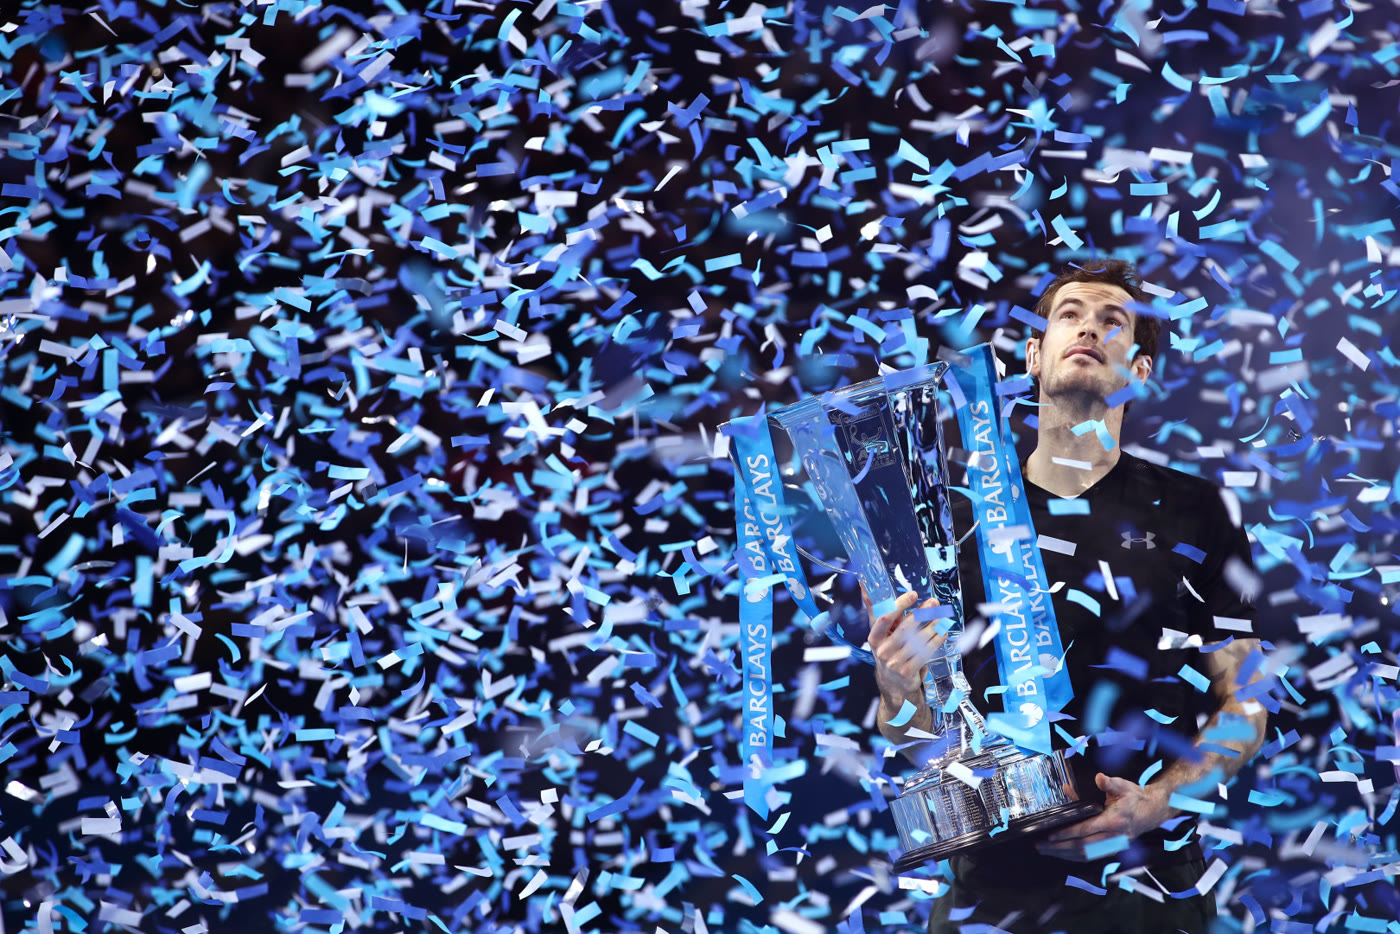
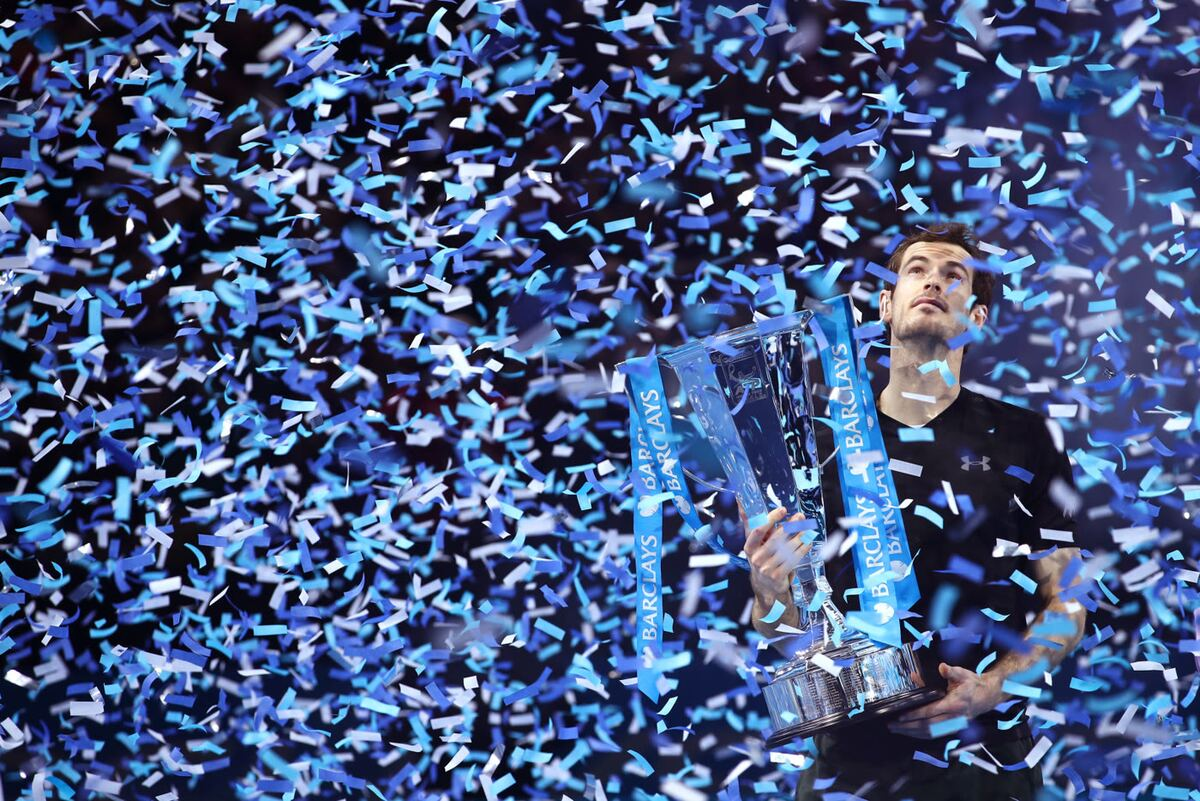
Écran d'ouverture : affichage immédiat depuis une copie locale (demarrage.js), polices non bloquantes, images en cache et allégées
Claude-Session: https://claude.ai/code/session_017ryZMzGu8HmXDfng5rvuLa

diff --git a/tests/web/ouverture-cache.test.js b/tests/web/ouverture-cache.test.js
@@ -1,0 +1,67 @@
+import test from 'node:test';
+import assert from 'node:assert/strict';
+import { readFileSync } from 'node:fs';
+import { CLE_CACHE, ecrireCache, lireCache, sessionMemorisee } from '../../web/js/ouverture-cache.js';
+
+const lire = (f) => readFileSync(new URL(`../../web/${f}`, import.meta.url), 'utf8');
+function faux(initial = {}) {
+  const m = new Map(Object.entries(initial));
+  return { getItem: (k) => (m.has(k) ? m.get(k) : null), setItem: (k, v) => m.set(k, String(v)), removeItem: (k) => m.delete(k), get length() { return m.size; }, key: (i) => [...m.keys()][i] };
+}
+const cit = { id: 1, type: 'citation', texte: 'Texte A', auteur: 'X', source: '2010', actif: true, secret: 'ne doit pas être copié' };
+const img = { id: 3, type: 'image', image_url: './images/ouverture/a.jpg', texte: 'Légende', actif: true };
+
+test('copie des contenus : écrire puis lire, seulement les contenus valides et seulement les champs utiles', () => {
+  const s = faux();
+  ecrireCache(s, [cit, img, { id: 9, type: 'citation', texte: ' ', actif: true }, { id: 10, type: 'info', texte: 'x', actif: false }]);
+  const l = lireCache(s);
+  assert.deepEqual(l.map((c) => c.id), [1, 3]);
+  assert.equal('secret' in l[0], false);
+});
+
+test('copie des contenus : liste vide (interrupteur éteint, base vide) = copie effacée ; copie absente ou abîmée = liste vide', () => {
+  const s = faux();
+  ecrireCache(s, [cit]);
+  ecrireCache(s, []);
+  assert.equal(s.getItem(CLE_CACHE), null);
+  assert.deepEqual(lireCache(s), []);
+  assert.deepEqual(lireCache(faux({ [CLE_CACHE]: '{pas du json' })), []);
+  assert.deepEqual(lireCache(faux({ [CLE_CACHE]: '{"a":1}' })), []);
+});
+
+test('copie des contenus : un stockage inaccessible ne fait jamais planter', () => {
+  const casse = { getItem() { throw new Error('refusé'); }, setItem() { throw new Error('plein'); }, removeItem() { throw new Error('refusé'); }, get length() { throw new Error('refusé'); }, key() { throw new Error('refusé'); } };
+  assert.doesNotThrow(() => ecrireCache(casse, [cit]));
+  assert.deepEqual(lireCache(casse), []);
+  assert.equal(sessionMemorisee(casse), false);
+});
+
+test('sessionMemorisee : seulement si une session Supabase est mémorisée (pas d’écran d’ouverture avant la connexion)', () => {
+  assert.equal(sessionMemorisee(faux()), false);
+  assert.equal(sessionMemorisee(faux({ autre: '1', [CLE_CACHE]: '[]' })), false);
+  assert.equal(sessionMemorisee(faux({ 'sb-wmqyplehxtafxoilllfd-auth-token': '' })), false, 'clé vide : déconnecté');
+  assert.equal(sessionMemorisee(faux({ 'sb-wmqyplehxtafxoilllfd-auth-token': '{"access_token":"x"}' })), true);
+});
+
+test('lancement rapide : index.html démarre par demarrage.js (précharge app.js), app.js reprend la main sans relire la base ni rouvrir l’écran', () => {
+  const html = lire('index.html');
+  assert.match(html, /<script type="module" src="demarrage\.js">/);
+  assert.doesNotMatch(html, /<script type="module" src="app\.js">/);
+  assert.match(html, /rel="modulepreload" href="app\.js"/);
+  assert.match(html, /rel="stylesheet" media="print" onload="this\.media='all'"/, 'polices non bloquantes');
+  const dem = lire('demarrage.js');
+  assert.match(dem, /sessionMemorisee\(localStorage\)/);
+  assert.match(dem, /import\('\.\/app\.js'\)/);
+  assert.match(dem, /globalThis\.pronosOuverture = \{ fermee \}/);
+  const app = lire('app.js');
+  assert.match(app, /globalThis\.pronosOuverture/);
+  assert.match(app, /await rapide\.fermee/);
+  assert.match(app, /ecrireCache\(localStorage, liste\)/);
+});
+
+test('service worker : images de l’écran d’ouverture en cache d’abord ; demarrage.js dans la coque', () => {
+  const sw = lire('sw.js');
+  assert.match(sw, /includes\('\/images\/ouverture\/'\)/);
+  assert.match(sw, /cachePuisReseau/);
+  assert.match(sw, /'demarrage\.js'/);
+});

diff --git a/web/demarrage.js b/web/demarrage.js
@@ -1,0 +1,31 @@
+// Pronos Tennis — premier fichier chargé (21 nov. 2026, demandé par Pierre : réduire le temps avant la citation d'ouverture).
+// Il affiche l'écran d'ouverture tout de suite, depuis la copie gardée sur l'appareil, pendant que l'appli complète (app.js,
+// bibliothèque Supabase, une trentaine de fichiers) se charge en arrière-plan. Sans copie ou sans session mémorisée : rien
+// n'est affiché ici et app.js fait comme avant (lecture dans la base).
+import { choisirContenu, htmlEcranOuverture } from './js/ecran-ouverture.js';
+import { lireCache, sessionMemorisee } from './js/ouverture-cache.js';
+
+const racine = document.getElementById('app');
+const chargerAppli = () => import('./app.js');
+
+try {
+  const contenu = sessionMemorisee(localStorage) ? choisirContenu(lireCache(localStorage)) : null;
+  if (contenu) {
+    racine.innerHTML = htmlEcranOuverture(contenu);
+    const ecran = racine.querySelector('[data-action="ecran-ouverture-fermer"]');
+    ecran.querySelector('img')?.addEventListener('error', (e) => e.target.remove(), { once: true });
+    // app.js attend cette promesse avant d'enchaîner (écrans de fin de tournoi, accueil)
+    const fermee = new Promise((fin) => {
+      const fermer = () => { racine.innerHTML = '<p class="chargement">Chargement…</p>'; fin(); };
+      ecran.addEventListener('click', fermer, { once: true });
+      ecran.addEventListener('keydown', (e) => { if (e.key === 'Enter' || e.key === ' ') { e.preventDefault(); fermer(); } }, { once: true });
+    });
+    globalThis.pronosOuverture = { fermee };
+    ecran.focus();
+  }
+} catch { /* sans écran rapide : app.js s'en charge */ }
+
+chargerAppli().catch(() => {
+  // l'appli n'a pas pu se charger (réseau coupé, fichier introuvable) : on le dit au lieu de rester bloqué sur l'écran
+  racine.innerHTML = '<p class="chargement">Le chargement a échoué. Vérifie ta connexion internet puis <a href="">réessaie</a>.</p>';
+});

diff --git a/web/js/ouverture-cache.js b/web/js/ouverture-cache.js
@@ -1,0 +1,36 @@
+// Écran d'ouverture : copie des contenus gardée sur l'appareil (localStorage), pour afficher la citation / l'info / l'image
+// immédiatement au lancement, sans attendre le chargement de l'appli ni le réseau (21 nov. 2026, demandé par Pierre).
+// Fonctions pures : le stockage est injecté (localStorage dans le navigateur, un faux dans les tests). Jamais d'exception.
+import { contenuValide } from './ecran-ouverture.js';
+
+export const CLE_CACHE = 'pronos-ouverture-v1';
+const MAX_CONTENUS = 300; // garde-fou : la copie reste petite
+
+/** Copie les contenus valides (liste vide : on efface, par ex. interrupteur éteint dans la base). */
+export function ecrireCache(stockage, contenus) {
+  try {
+    const liste = (contenus ?? []).filter(contenuValide).slice(0, MAX_CONTENUS)
+      .map(({ id, type, texte, auteur, source, image_url: imageUrl }) => ({ id, type, texte, auteur, source, image_url: imageUrl, actif: true }));
+    if (liste.length === 0) stockage.removeItem(CLE_CACHE);
+    else stockage.setItem(CLE_CACHE, JSON.stringify(liste));
+  } catch { /* stockage plein ou interdit : l'appli fonctionne sans */ }
+}
+
+/** Contenus copiés (valides seulement) ; liste vide si rien, si la copie est illisible ou si le stockage est inaccessible. */
+export function lireCache(stockage) {
+  try {
+    const liste = JSON.parse(stockage.getItem(CLE_CACHE) ?? '[]');
+    return Array.isArray(liste) ? liste.filter(contenuValide) : [];
+  } catch { return []; }
+}
+
+/** Une session Supabase est-elle mémorisée sur l'appareil ? (jamais d'écran d'ouverture avant la connexion) */
+export function sessionMemorisee(stockage) {
+  try {
+    for (let i = 0; i < stockage.length; i += 1) {
+      const cle = stockage.key(i);
+      if (/^sb-.+-auth-token$/.test(cle) && stockage.getItem(cle)) return true;
+    }
+  } catch { /* inaccessible : comme sans session */ }
+  return false;
+}

diff --git a/web/app.js b/web/app.js
@@ -36,6 +36,7 @@ import { htmlClotureAdmin, apercuCloture, messageErreurCloture } from './js/admi
 import { validerMatch, matchPourBase, messageErreurMatch, htmlMatchsAdmin, htmlFormulaireMatch } from './js/admin-matchs.js';
 import { ecransEnAttente, htmlEcranFin, ecransSaisonEnAttente, htmlEcranFinSaison } from './js/ecran-fin.js';
 import { choisirContenu, htmlEcranOuverture } from './js/ecran-ouverture.js';
+import { ecrireCache } from './js/ouverture-cache.js';
 import { regrouperParisTournoi, choisir, brouillonDepuisPariTournoi, messageErreurPariTournoi, contextePariTournoi } from './js/pari-tournoi.js';
 
 const supabase = createClient(SUPABASE_URL, SUPABASE_CLE_PUBLIABLE, {
@@ -1003,8 +1004,19 @@ async function afficherEcranEtAttendre(html) {
  * l'appli : base vide, interrupteur éteint, image qui ne charge pas ou erreur de lecture → on passe directement à la suite.
  */
 async function montrerEcranOuverture() {
+  // Lancement rapide (demarrage.js) : l'écran est déjà affiché depuis la copie de l'appareil ; on la met à jour pour la prochaine
+  // fois (sans attendre) et on attend seulement que le joueur le ferme.
+  const rapide = globalThis.pronosOuverture;
+  if (rapide) {
+    globalThis.pronosOuverture = null;
+    donnees.ecranOuverture().then((liste) => ecrireCache(localStorage, liste)).catch(() => {});
+    await rapide.fermee;
+    return;
+  }
   let contenu;
-  try { contenu = choisirContenu(await donnees.ecranOuverture()); } catch { return; }
+  let liste;
+  try { liste = await donnees.ecranOuverture(); contenu = choisirContenu(liste); } catch { return; }
+  ecrireCache(localStorage, liste); // première ouverture (ou après connexion) : la copie servira dès le prochain lancement
   if (!contenu) return;
   racine.innerHTML = htmlEcranOuverture(contenu);
   window.scrollTo(0, 0);

diff --git a/web/index.html b/web/index.html
@@ -15,8 +15,16 @@
   <title>Pronos Tennis</title>
   <link rel="preconnect" href="https://fonts.googleapis.com">
   <link rel="preconnect" href="https://fonts.gstatic.com" crossorigin>
-  <link href="https://fonts.googleapis.com/css2?family=Bricolage+Grotesque:opsz,wght@12..96,400;12..96,600;12..96,800&display=swap" rel="stylesheet">
+  <!-- polices : feuille non bloquante (le texte s'affiche tout de suite avec la police de secours, puis bascule) -->
+  <link href="https://fonts.googleapis.com/css2?family=Bricolage+Grotesque:opsz,wght@12..96,400;12..96,600;12..96,800&display=swap" rel="stylesheet" media="print" onload="this.media='all'">
+  <noscript><link href="https://fonts.googleapis.com/css2?family=Bricolage+Grotesque:opsz,wght@12..96,400;12..96,600;12..96,800&display=swap" rel="stylesheet"></noscript>
   <link rel="stylesheet" href="style.css">
+  <!-- chargés d'avance, en parallèle : écran d'ouverture rapide puis appli complète -->
+  <link rel="modulepreload" href="demarrage.js">
+  <link rel="modulepreload" href="js/ecran-ouverture.js">
+  <link rel="modulepreload" href="js/ouverture-cache.js">
+  <link rel="modulepreload" href="js/outils.js">
+  <link rel="modulepreload" href="app.js">
 </head>
 <body>
   <div id="app" aria-live="polite">
@@ -29,7 +37,7 @@
       if (c) c.innerHTML = 'Le chargement prend trop de temps. Vérifie ta connexion internet puis <a href="">réessaie</a>. Si cela dure, préviens Pit.';
     }, 15000);
   </script>
-  <script type="module" src="app.js"></script>
+  <script type="module" src="demarrage.js"></script>
   <noscript>Cette application a besoin de JavaScript.</noscript>
 </body>
 </html>

diff --git a/web/sw.js b/web/sw.js
@@ -8,7 +8,7 @@
  */
 const CACHE = 'pronos-tennis-v1';
 const DELAI_RESEAU_MS = 4000;
-const COQUE = ['./', 'index.html', 'style.css', 'app.js', 'config.js', 'manifest.webmanifest', 'icons/icone-192.png'];
+const COQUE = ['./', 'index.html', 'style.css', 'demarrage.js', 'app.js', 'config.js', 'manifest.webmanifest', 'icons/icone-192.png'];
 const HOTES_STATIQUES = ['cdn.jsdelivr.net', 'fonts.googleapis.com', 'fonts.gstatic.com'];
 
 self.addEventListener('install', (evt) => {
@@ -60,12 +60,24 @@ async function cacheRafraichi(requete) {
   return enCache || (await reseau) || Response.error();
 }
 
+/** Images de l'écran d'ouverture : elles ne changent jamais (un nom de fichier = une image) → cache d'abord, réseau seulement la première fois. */
+async function cachePuisReseau(requete) {
+  const cache = await caches.open(CACHE);
+  const enCache = await cache.match(requete);
+  if (enCache) return enCache;
+  const reponse = await fetch(requete);
+  if (reponse && reponse.ok) cache.put(requete, reponse.clone());
+  return reponse;
+}
+
 self.addEventListener('fetch', (evt) => {
   const requete = evt.request;
   if (requete.method !== 'GET') return;
   const url = new URL(requete.url);
 
-  if (url.origin === self.location.origin) {
+  if (url.origin === self.location.origin && url.pathname.includes('/images/ouverture/')) {
+    evt.respondWith(cachePuisReseau(requete));
+  } else if (url.origin === self.location.origin) {
     evt.respondWith(reseauPuisCache(requete));
   } else if (HOTES_STATIQUES.includes(url.hostname)) {
     evt.respondWith(cacheRafraichi(requete));

diff --git a/ETAT.md b/ETAT.md
@@ -354,3 +354,11 @@ Choix de conception de l'étape 3.3 (à signaler à Pierre) : la maquette 1 n'es
 - **Interrupteur allumé le 21 nov. 2026** : `update public.ecran_ouverture_reglage set actif = true;` (false pour l'éteindre).
 - **Réactivés le 21 nov. 2026 (16 h)** sur décision de Pierre : la citation d'Ivan Lendl gardée telle quelle ; la statistique sur le premier titre en Grand Chelem commence désormais par « Pendant l'ère Open, » (précision : Jimmy Connors en 1974 est le seul cas limite, puisqu'il n'a pas joué Roland-Garros cette année-là). Plus aucun contenu en pause : 12 images, 48 citations, 8 statistiques actives (3 ajoutées à 17 h, avec emojis).
 - **Pour ajouter un contenu** : une ligne `insert` de plus (SQL Editor) ; pour une image, déposer le fichier dans `web/images/ouverture/` puis l'adresse `./images/ouverture/nom.jpg`.
+
+## Lancement rapide de l'écran d'ouverture (21 nov. 2026, demandé par Pierre : réduire le temps avant la citation)
+- Avant : la citation attendait le chargement de toute l'appli (bibliothèque Supabase externe + ~30 fichiers), la lecture de la session, du profil, puis des contenus dans la base.
+- Maintenant : `index.html` charge `web/demarrage.js` (petit fichier) qui affiche tout de suite l'écran d'ouverture depuis une copie des contenus gardée sur l'appareil (`localStorage`, clé `pronos-ouverture-v1`, module `web/js/ouverture-cache.js`), pendant que `app.js` se charge en arrière-plan (préchargé par `modulepreload`). `app.js` attend ensuite seulement la fermeture de l'écran (`globalThis.pronosOuverture`) et remet la copie à jour sans attendre.
+- Condition : une session Supabase mémorisée sur l'appareil ET une copie existante. Sinon (première ouverture, après connexion, déconnecté) : comportement d'avant (lecture dans la base), qui crée la copie. Interrupteur éteint ou contenus supprimés dans la base : la copie est effacée au lancement suivant (l'écran peut donc s'afficher une dernière fois après l'extinction).
+- Aussi : feuille des polices Google non bloquante, images de l'écran d'ouverture en cache d'abord dans le service worker (`sw.js`), deux images lourdes recompressées (2,1 Mo → 1,6 Mo au total).
+- Mesure en navigateur (bibliothèque externe volontairement bloquée 4 s) : citation visible après ~180 ms.
+- Test connu dépendant de l'heure, sans rapport : `tests/sync/bout-en-bout.test.js` n° 4 échoue après 15 h (créneau de vérification des affiches), à rendre indépendant de l'heure.
